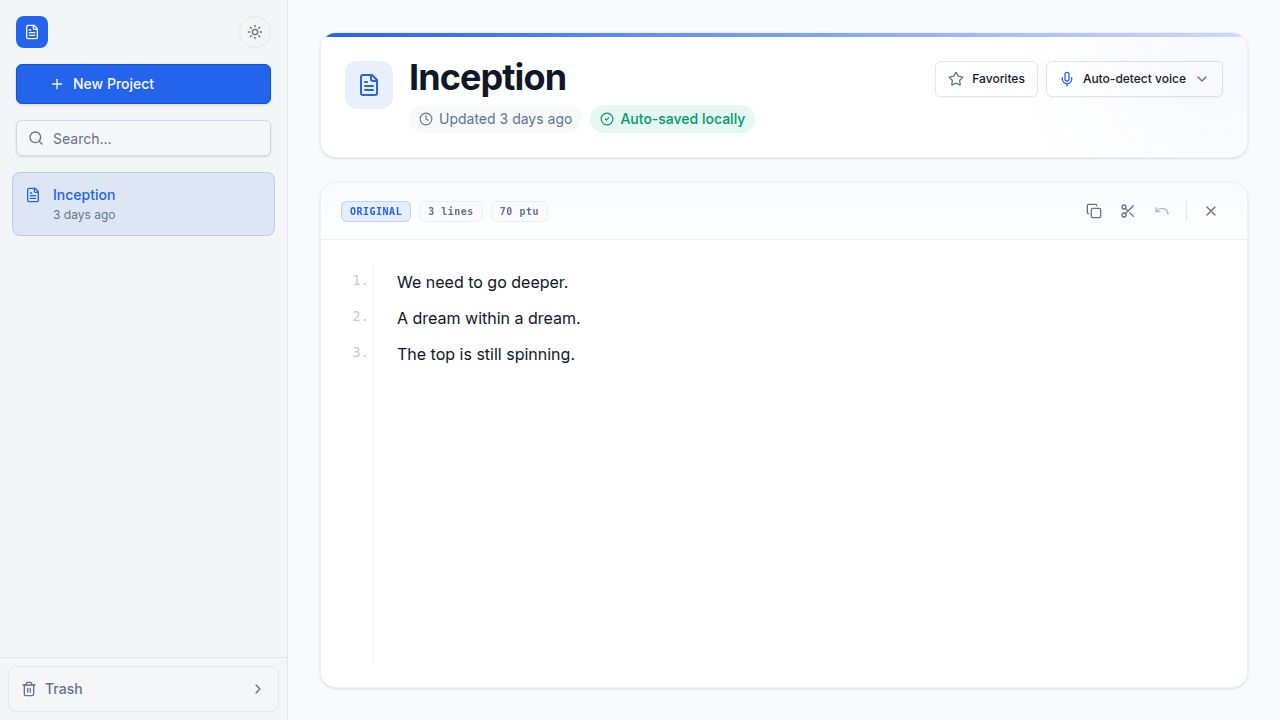
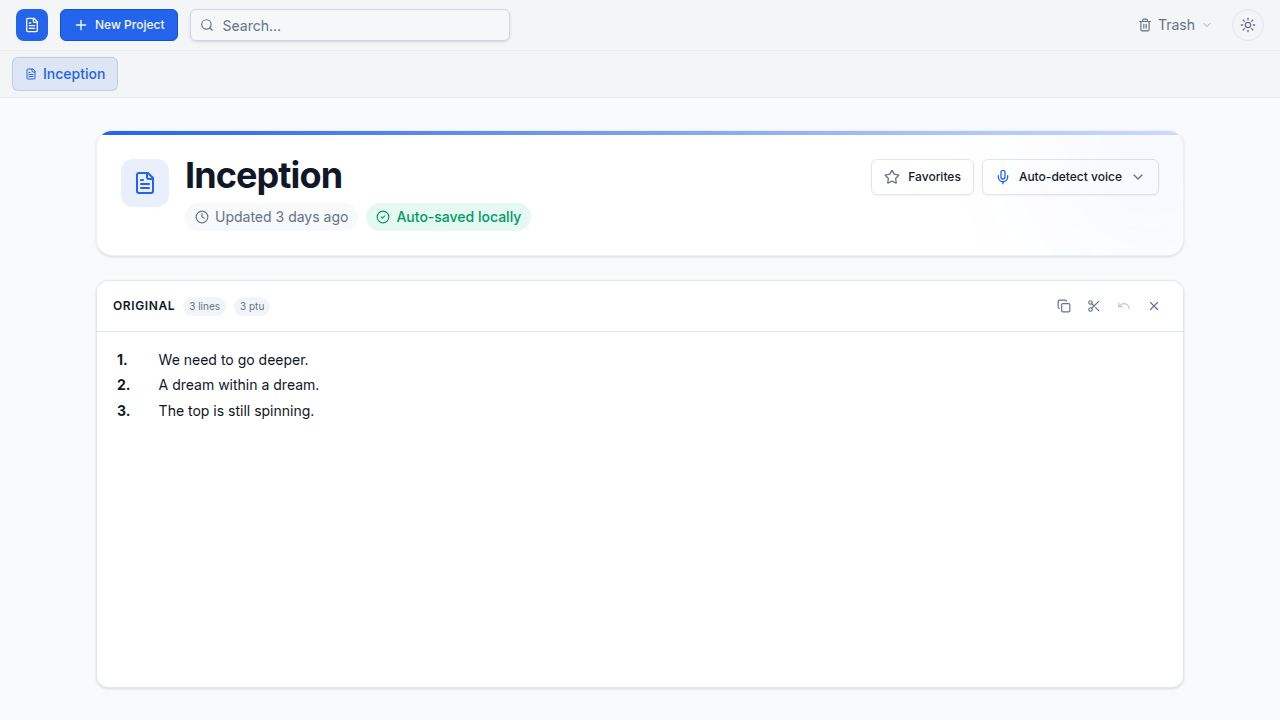
Rearrange the application interface to place the navigation at the top and ensure consistent card sizing
Update layout to move sidebar to a top navigation bar and apply fixed height to editor cards.

Replit-Commit-Author: Agent
Replit-Commit-Session-Id: dbe9be42-6806-4f74-a6bc-1f7596d79b83
Replit-Commit-Checkpoint-Type: full_checkpoint
Replit-Commit-Event-Id: 1f43c58e-4963-4cf4-922f-2ef969f8d5d6
Replit-Commit-Screenshot-Url: https://storage.googleapis.com/screenshot-production-us-central1/326fe8e7-1789-46b8-92f8-aaf803759ad5/dbe9be42-6806-4f74-a6bc-1f7596d79b83/vVSUSYk
Replit-Helium-Checkpoint-Created: true

diff --git a/artifacts/notes-app/src/components/layout/sidebar.tsx b/artifacts/notes-app/src/components/layout/sidebar.tsx
@@ -1,13 +1,18 @@
 import { useState } from "react";
-import { Moon, Sun, Plus, Search, FileText, ChevronDown, ChevronRight, Trash2, ArchiveRestore } from "lucide-react";
+import { Moon, Sun, Plus, Search, FileText, Trash2, ArchiveRestore, ChevronDown } from "lucide-react";
 import { Project } from "@/lib/store";
 import { useTheme } from "@/hooks/use-theme";
 import { formatDistanceToNow } from "date-fns";
 import { Button } from "@/components/ui/button";
 import { Input } from "@/components/ui/input";
-import { Collapsible, CollapsibleContent, CollapsibleTrigger } from "@/components/ui/collapsible";
-import { ScrollArea } from "@/components/ui/scroll-area";
 import { motion, AnimatePresence } from "framer-motion";
+import {
+  DropdownMenu,
+  DropdownMenuContent,
+  DropdownMenuTrigger,
+  DropdownMenuItem,
+  DropdownMenuSeparator,
+} from "@/components/ui/dropdown-menu";
 
 type SidebarProps = {
   projects: Project[];
@@ -34,7 +39,9 @@ export function Sidebar({
   const [search, setSearch] = useState("");
   const [isTrashOpen, setIsTrashOpen] = useState(false);
 
-  const filteredProjects = projects.filter((p) => p.title.toLowerCase().includes(search.toLowerCase()));
+  const filteredProjects = projects.filter((p) =>
+    p.title.toLowerCase().includes(search.toLowerCase())
+  );
 
   const handleDragStart = (e: React.DragEvent, id: string) => {
     e.dataTransfer.setData("text/plain", id);
@@ -51,14 +58,98 @@ export function Sidebar({
   };
 
   return (
-    <div className="w-72 border-r border-border bg-sidebar flex flex-col h-screen flex-shrink-0">
-      <div className="p-4 flex flex-col gap-4">
-        <div className="flex items-center justify-between">
-          <div className="flex items-center gap-2 font-bold text-lg text-sidebar-foreground">
-            <div className="w-8 h-8 rounded-lg bg-primary text-primary-foreground flex items-center justify-center">
-              <FileText className="w-4 h-4" />
-            </div>
+    <div className="w-full border-b border-border bg-sidebar flex-shrink-0">
+      {/* Top row: logo, new project, search, trash, theme */}
+      <div className="flex items-center gap-3 px-4 py-2 border-b border-border/50">
+        <div className="flex items-center gap-2 font-bold text-base text-sidebar-foreground shrink-0">
+          <div className="w-8 h-8 rounded-lg bg-primary text-primary-foreground flex items-center justify-center">
+            <FileText className="w-4 h-4" />
           </div>
+        </div>
+
+        <Button
+          onClick={createProject}
+          className="shrink-0 gap-1.5 font-medium"
+          size="sm"
+        >
+          <Plus className="w-3.5 h-3.5" />
+          New Project
+        </Button>
+
+        <div className="relative flex-1 max-w-xs">
+          <Search className="w-3.5 h-3.5 absolute left-2.5 top-1/2 -translate-y-1/2 text-muted-foreground" />
+          <Input
+            placeholder="Search..."
+            value={search}
+            onChange={(e) => setSearch(e.target.value)}
+            className="pl-8 h-8 text-sm bg-background/50 border-sidebar-border"
+          />
+        </div>
+
+        <div className="flex items-center gap-2 ml-auto shrink-0">
+          {/* Trash dropdown */}
+          <DropdownMenu open={isTrashOpen} onOpenChange={setIsTrashOpen}>
+            <DropdownMenuTrigger asChild>
+              <button
+                onDragOver={handleDragOver}
+                onDrop={handleDrop}
+                className="flex items-center gap-1.5 px-2.5 py-1.5 rounded-md text-sm text-muted-foreground hover:text-foreground hover:bg-muted/50 transition-colors border border-transparent hover:border-border"
+              >
+                <Trash2 className="w-3.5 h-3.5" />
+                <span>Trash</span>
+                {trash.length > 0 && (
+                  <span className="bg-muted px-1.5 py-0.5 rounded text-xs leading-none">
+                    {trash.length}
+                  </span>
+                )}
+                <ChevronDown className="w-3 h-3 opacity-60" />
+              </button>
+            </DropdownMenuTrigger>
+            <DropdownMenuContent align="end" className="w-56">
+              {trash.length === 0 ? (
+                <div className="text-xs text-center py-4 text-muted-foreground">
+                  Trash is empty. Drag projects here.
+                </div>
+              ) : (
+                <>
+                  {trash.map((p) => (
+                    <div
+                      key={p.id}
+                      className="flex items-center justify-between gap-2 px-2 py-1.5 rounded hover:bg-muted group"
+                    >
+                      <span className="text-xs truncate text-muted-foreground flex-1" title={p.title}>
+                        {p.title}
+                      </span>
+                      <div className="flex items-center gap-1">
+                        <button
+                          onClick={() => restoreFromTrash(p.id)}
+                          className="p-1 hover:bg-background rounded text-muted-foreground hover:text-primary transition-colors"
+                          title="Restore"
+                        >
+                          <ArchiveRestore className="w-3 h-3" />
+                        </button>
+                        <button
+                          onClick={() => deletePermanently(p.id)}
+                          className="p-1 hover:bg-destructive/20 rounded text-muted-foreground hover:text-destructive transition-colors"
+                          title="Delete Permanently"
+                        >
+                          <Trash2 className="w-3 h-3" />
+                        </button>
+                      </div>
+                    </div>
+                  ))}
+                  <DropdownMenuSeparator />
+                  <DropdownMenuItem
+                    className="text-xs text-destructive focus:text-destructive"
+                    onClick={() => trash.forEach((p) => deletePermanently(p.id))}
+                  >
+                    Empty trash
+                  </DropdownMenuItem>
+                </>
+              )}
+            </DropdownMenuContent>
+          </DropdownMenu>
+
           <button
             onClick={toggleTheme}
             className="w-8 h-8 rounded-full border border-border flex items-center justify-center text-muted-foreground hover:text-foreground transition-colors hover:bg-muted/50"
@@ -66,129 +157,36 @@ export function Sidebar({
             {theme === "dark" ? <Moon className="w-4 h-4" /> : <Sun className="w-4 h-4" />}
           </button>
         </div>
-
-        <Button onClick={createProject} className="w-full justify-start gap-2 shadow-sm font-medium" size="lg">
-          <Plus className="w-4 h-4" />
-          New Project
-        </Button>
-
-        <div className="relative">
-          <Search className="w-4 h-4 absolute left-3 top-1/2 -translate-y-1/2 text-muted-foreground" />
-          <Input
-            placeholder="Search..."
-            value={search}
-            onChange={(e) => setSearch(e.target.value)}
-            className="pl-9 bg-background/50 border-sidebar-border"
-          />
-        </div>
       </div>
 
-      <ScrollArea className="flex-1 px-3">
-        <div className="flex flex-col gap-1 pb-4">
-          <AnimatePresence>
-            {filteredProjects.map((p) => (
-              <motion.div
-                key={p.id}
-                layout
-                initial={{ opacity: 0, y: 10 }}
-                animate={{ opacity: 1, y: 0 }}
-                exit={{ opacity: 0, scale: 0.95 }}
-                transition={{ duration: 0.2 }}
-              >
-                <div
-                  draggable
-                  onDragStart={(e) => handleDragStart(e, p.id)}
-                  onClick={() => setActiveProject(p.id)}
-                  className={`group flex items-start gap-3 p-3 rounded-lg cursor-pointer transition-colors border ${
-                    activeProjectId === p.id
-                      ? "bg-primary/10 border-primary/20"
-                      : "border-transparent hover:bg-muted/50"
-                  }`}
-                >
-                  <FileText
-                    className={`w-4 h-4 mt-0.5 flex-shrink-0 ${
-                      activeProjectId === p.id ? "text-primary" : "text-muted-foreground"
-                    }`}
-                  />
-                  <div className="flex-1 min-w-0">
-                    <div
-                      className={`font-medium truncate text-sm ${
-                        activeProjectId === p.id ? "text-primary" : "text-sidebar-foreground"
-                      }`}
-                    >
-                      {p.title}
-                    </div>
-                    <div className="text-xs text-muted-foreground truncate mt-0.5">
-                      {formatDistanceToNow(p.updatedAt, { addSuffix: true })}
-                    </div>
-                  </div>
-                </div>
-              </motion.div>
-            ))}
-          </AnimatePresence>
-          {filteredProjects.length === 0 && (
-            <div className="text-center py-8 text-sm text-muted-foreground">No projects found.</div>
-          )}
-        </div>
-      </ScrollArea>
-
-      <div className="mt-auto border-t border-border bg-sidebar/50 p-2">
-        <Collapsible
-          open={isTrashOpen}
-          onOpenChange={setIsTrashOpen}
-          onDragOver={handleDragOver}
-          onDrop={handleDrop}
-          className="rounded-lg bg-background/30 border border-border"
-        >
-          <CollapsibleTrigger className="flex items-center justify-between w-full p-3 text-sm font-medium text-muted-foreground hover:text-foreground transition-colors group">
-            <div className="flex items-center gap-2">
-              <Trash2 className="w-4 h-4" />
-              <span>Trash</span>
-              {trash.length > 0 && (
-                <span className="bg-muted px-1.5 py-0.5 rounded text-xs leading-none">
-                  {trash.length}
-                </span>
-              )}
-            </div>
-            {isTrashOpen ? <ChevronDown className="w-4 h-4" /> : <ChevronRight className="w-4 h-4" />}
-          </CollapsibleTrigger>
-          <CollapsibleContent className="px-3 pb-3">
-            {trash.length === 0 ? (
-              <div className="text-xs text-center py-4 text-muted-foreground border border-dashed border-border rounded-md bg-muted/20">
-                Drag projects here
-              </div>
-            ) : (
-              <div className="flex flex-col gap-1 mt-1 max-h-40 overflow-y-auto pr-1">
-                {trash.map((p) => (
-                  <div
-                    key={p.id}
-                    className="flex items-center justify-between gap-2 p-2 rounded border border-transparent hover:border-border hover:bg-background/50 group"
-                  >
-                    <span className="text-xs truncate text-muted-foreground flex-1" title={p.title}>
-                      {p.title}
-                    </span>
-                    <div className="flex items-center gap-1 opacity-0 group-hover:opacity-100 transition-opacity">
-                      <button
-                        onClick={() => restoreFromTrash(p.id)}
-                        className="p-1 hover:bg-muted rounded text-muted-foreground hover:text-primary transition-colors"
-                        title="Restore"
-                      >
-                        <ArchiveRestore className="w-3 h-3" />
-                      </button>
-                      <button
-                        onClick={() => deletePermanently(p.id)}
-                        className="p-1 hover:bg-destructive/20 rounded text-muted-foreground hover:text-destructive transition-colors"
-                        title="Delete Permanently"
-                      >
-                        <Trash2 className="w-3 h-3" />
-                      </button>
-                    </div>
-                  </div>
-                ))}
-              </div>
-            )}
-          </CollapsibleContent>
-        </Collapsible>
+      {/* Project tabs row */}
+      <div className="flex items-center gap-1 px-3 py-1.5 overflow-x-auto scrollbar-none">
+        <AnimatePresence initial={false}>
+          {filteredProjects.map((p) => (
+            <motion.button
+              key={p.id}
+              layout
+              initial={{ opacity: 0, scale: 0.92 }}
+              animate={{ opacity: 1, scale: 1 }}
+              exit={{ opacity: 0, scale: 0.92 }}
+              transition={{ duration: 0.15 }}
+              draggable
+              onDragStart={(e) => handleDragStart(e as unknown as React.DragEvent, p.id)}
+              onClick={() => setActiveProject(p.id)}
+              className={`flex items-center gap-1.5 px-3 py-1.5 rounded-md text-sm whitespace-nowrap shrink-0 transition-colors border ${
+                activeProjectId === p.id
+                  ? "bg-primary/10 border-primary/20 text-primary font-medium"
+                  : "border-transparent text-muted-foreground hover:text-foreground hover:bg-muted/50"
+              }`}
+            >
+              <FileText className="w-3 h-3 shrink-0" />
+              <span className="max-w-[140px] truncate">{p.title}</span>
+            </motion.button>
+          ))}
+        </AnimatePresence>
+        {filteredProjects.length === 0 && (
+          <span className="text-xs text-muted-foreground px-2 py-1.5">No projects found.</span>
+        )}
       </div>
     </div>
   );

diff --git a/artifacts/notes-app/src/pages/home.tsx b/artifacts/notes-app/src/pages/home.tsx
@@ -19,7 +19,7 @@ export default function Home() {
   } = useStore();
 
   return (
-    <div className="flex h-screen w-full bg-background overflow-hidden">
+    <div className="flex flex-col h-screen w-full bg-background overflow-hidden">
       <Sidebar
         projects={projects}
         trash={trash}
@@ -30,17 +30,17 @@ export default function Home() {
         restoreFromTrash={restoreFromTrash}
         deletePermanently={deletePermanently}
       />
-      <main className="flex-1 h-screen overflow-y-auto relative bg-dot-pattern">
+      <main className="flex-1 overflow-y-auto relative bg-dot-pattern">
         {activeProject ? (
           <Editor
-            key={activeProject.id} // force remount on project change
+            key={activeProject.id}
             project={activeProject}
             updateProject={updateProject}
             closeProject={() => setActiveProject(null)}
           />
         ) : (
           <div className="flex flex-col items-center justify-center h-full text-center p-8 animate-in fade-in duration-700">
-            <motion.div 
+            <motion.div
               initial={{ scale: 0.9, opacity: 0 }}
               animate={{ scale: 1, opacity: 1 }}
               transition={{ delay: 0.1, duration: 0.4 }}
@@ -50,7 +50,7 @@ export default function Home() {
             </motion.div>
             <h2 className="text-2xl font-bold text-foreground mb-2 tracking-tight">Select a project</h2>
             <p className="text-muted-foreground max-w-sm">
-              Choose a project from the sidebar or create a new one to start writing. Your work is always auto-saved locally.
+              Choose a project from the tab bar above or create a new one to start writing. Your work is always auto-saved locally.
             </p>
           </div>
         )}

diff --git a/artifacts/notes-app/src/components/editor/note-editor.tsx b/artifacts/notes-app/src/components/editor/note-editor.tsx
@@ -509,7 +509,7 @@ export function Editor({ project, updateProject, closeProject }: EditorProps) {
                 return (
                   <div
                     key={index}
-                    className="flex items-center gap-3 bg-background border border-emerald-400/60 rounded-lg px-4 py-3 shadow-sm hover:border-emerald-500 transition-colors animate-in fade-in slide-in-from-bottom-2 duration-300"
+                    className="flex items-center gap-3 bg-background border border-emerald-400/60 rounded-lg px-4 shadow-sm hover:border-emerald-500 transition-colors animate-in fade-in slide-in-from-bottom-2 duration-300 h-14"
                   >
                     <div className="text-muted-foreground/60 font-mono text-sm select-none shrink-0">
                       {String(index + 1).padStart(3, "0")}.
